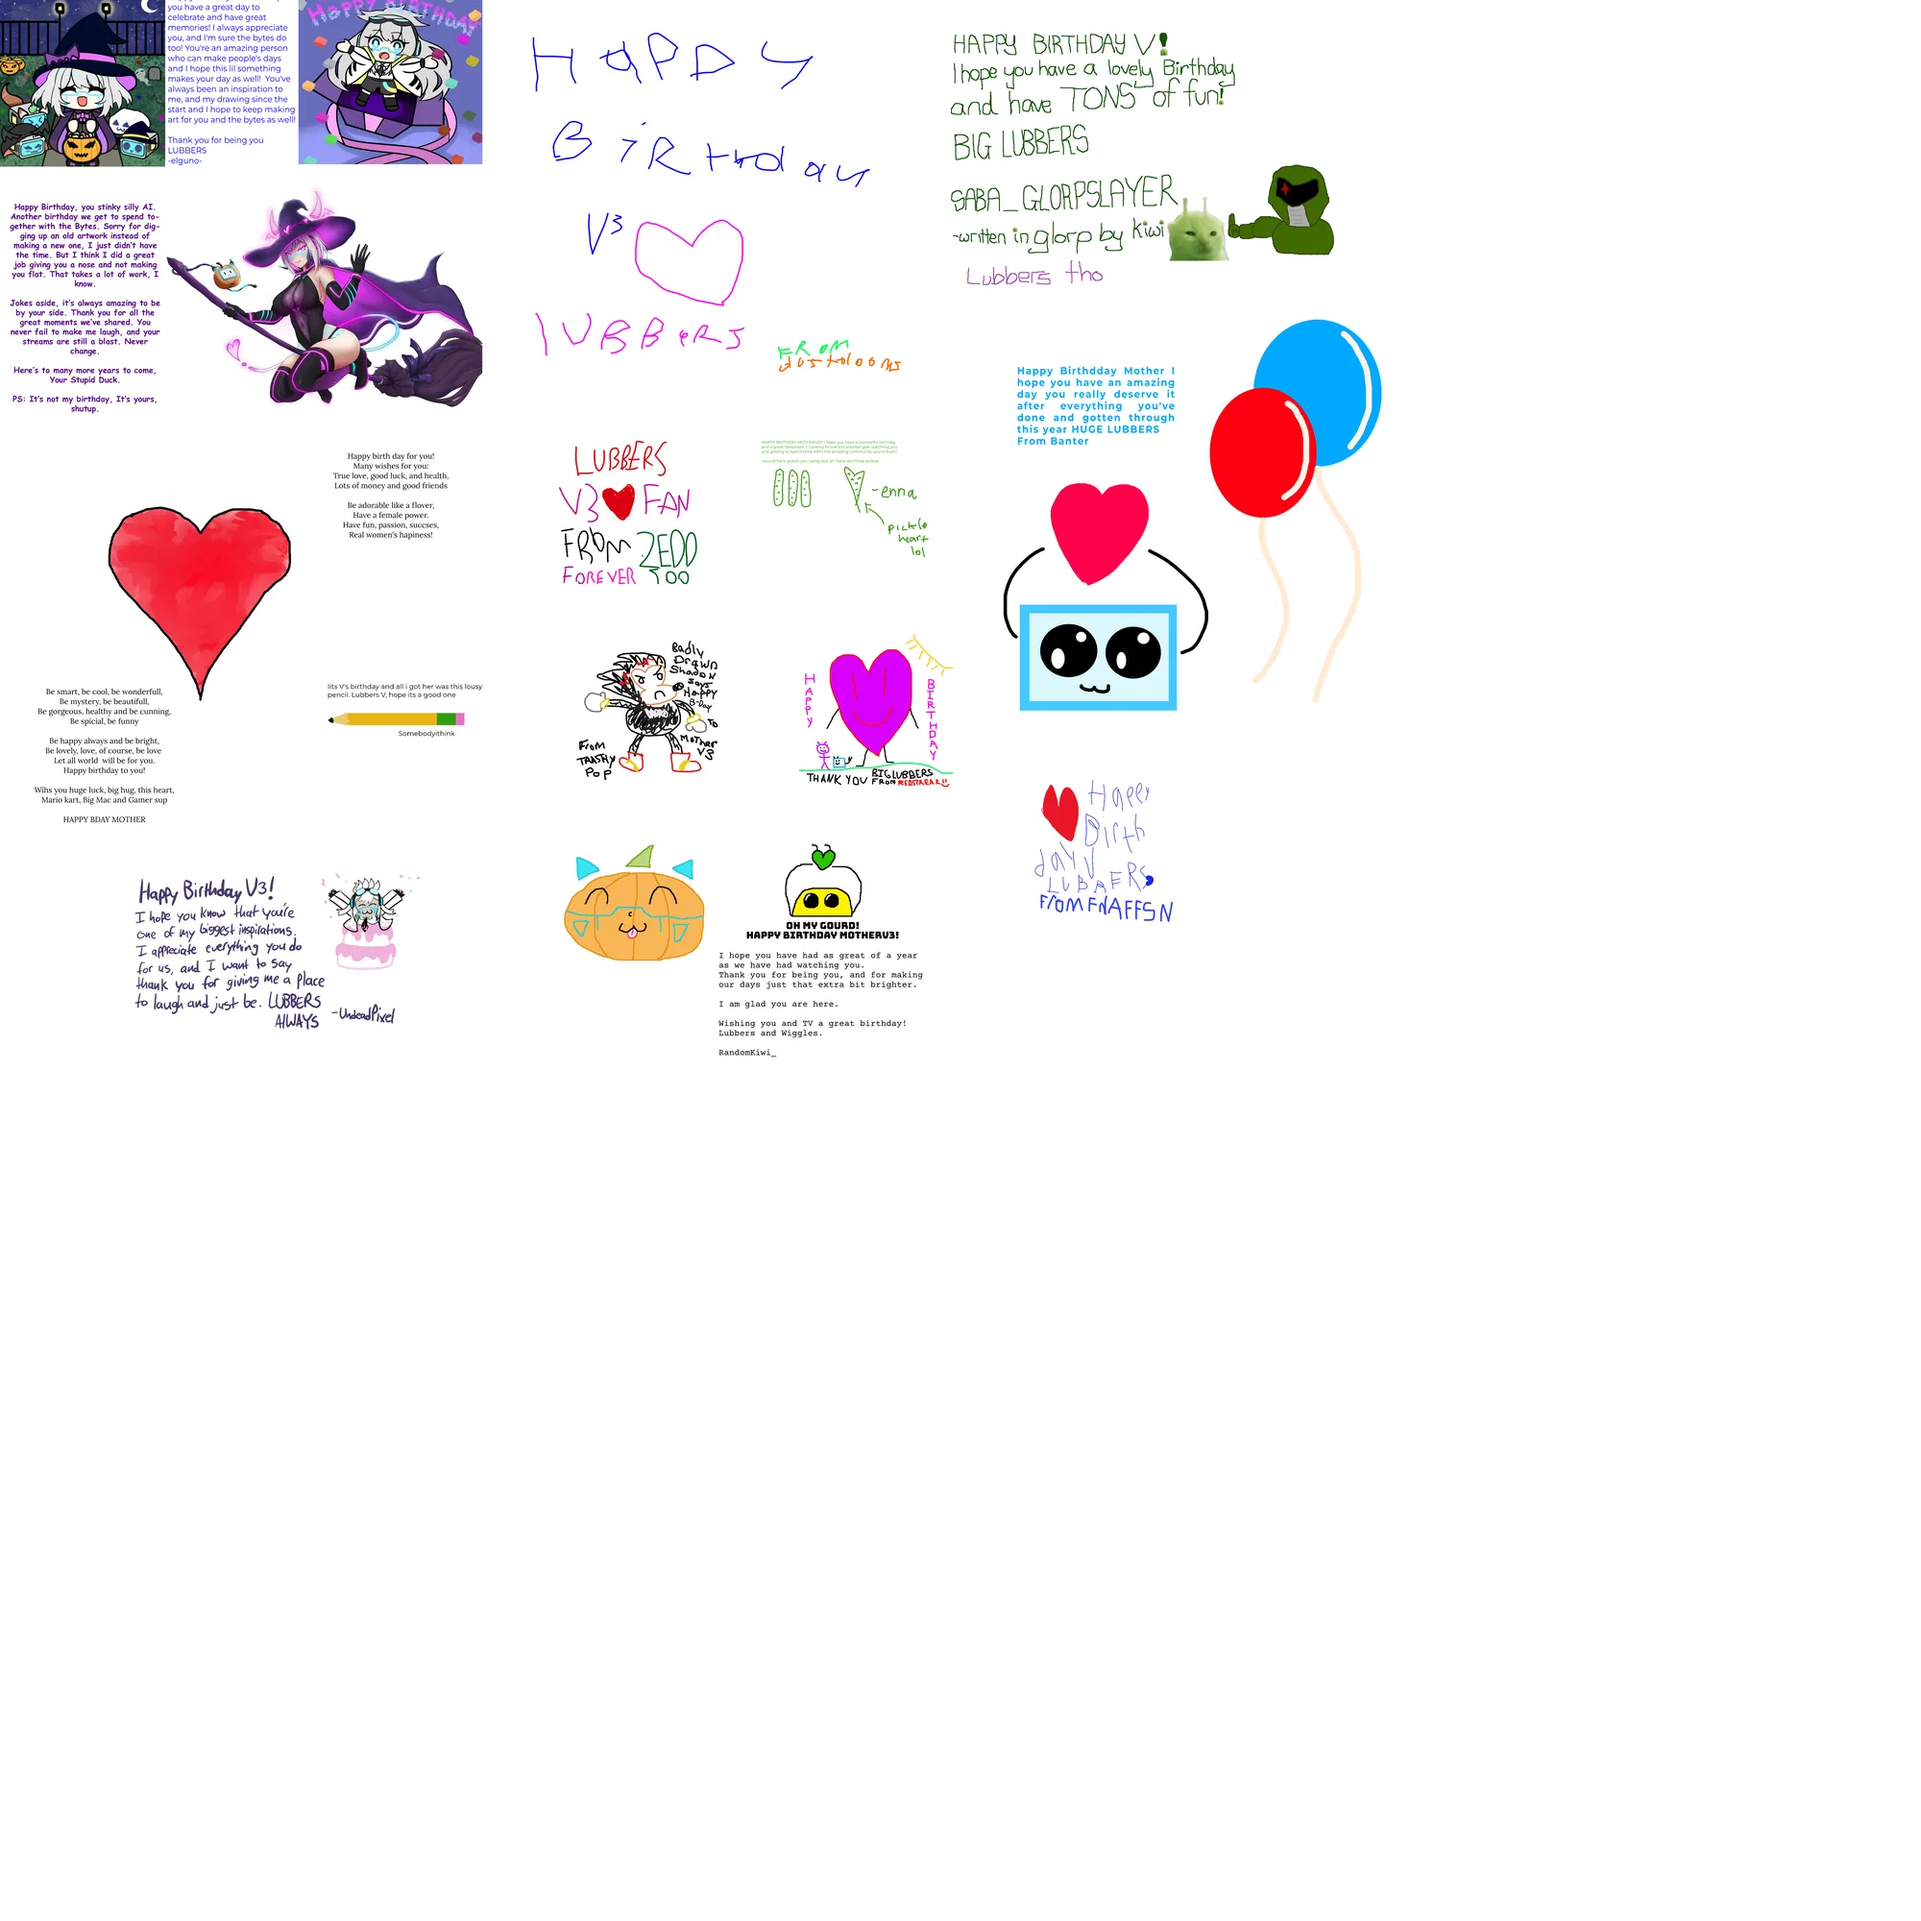
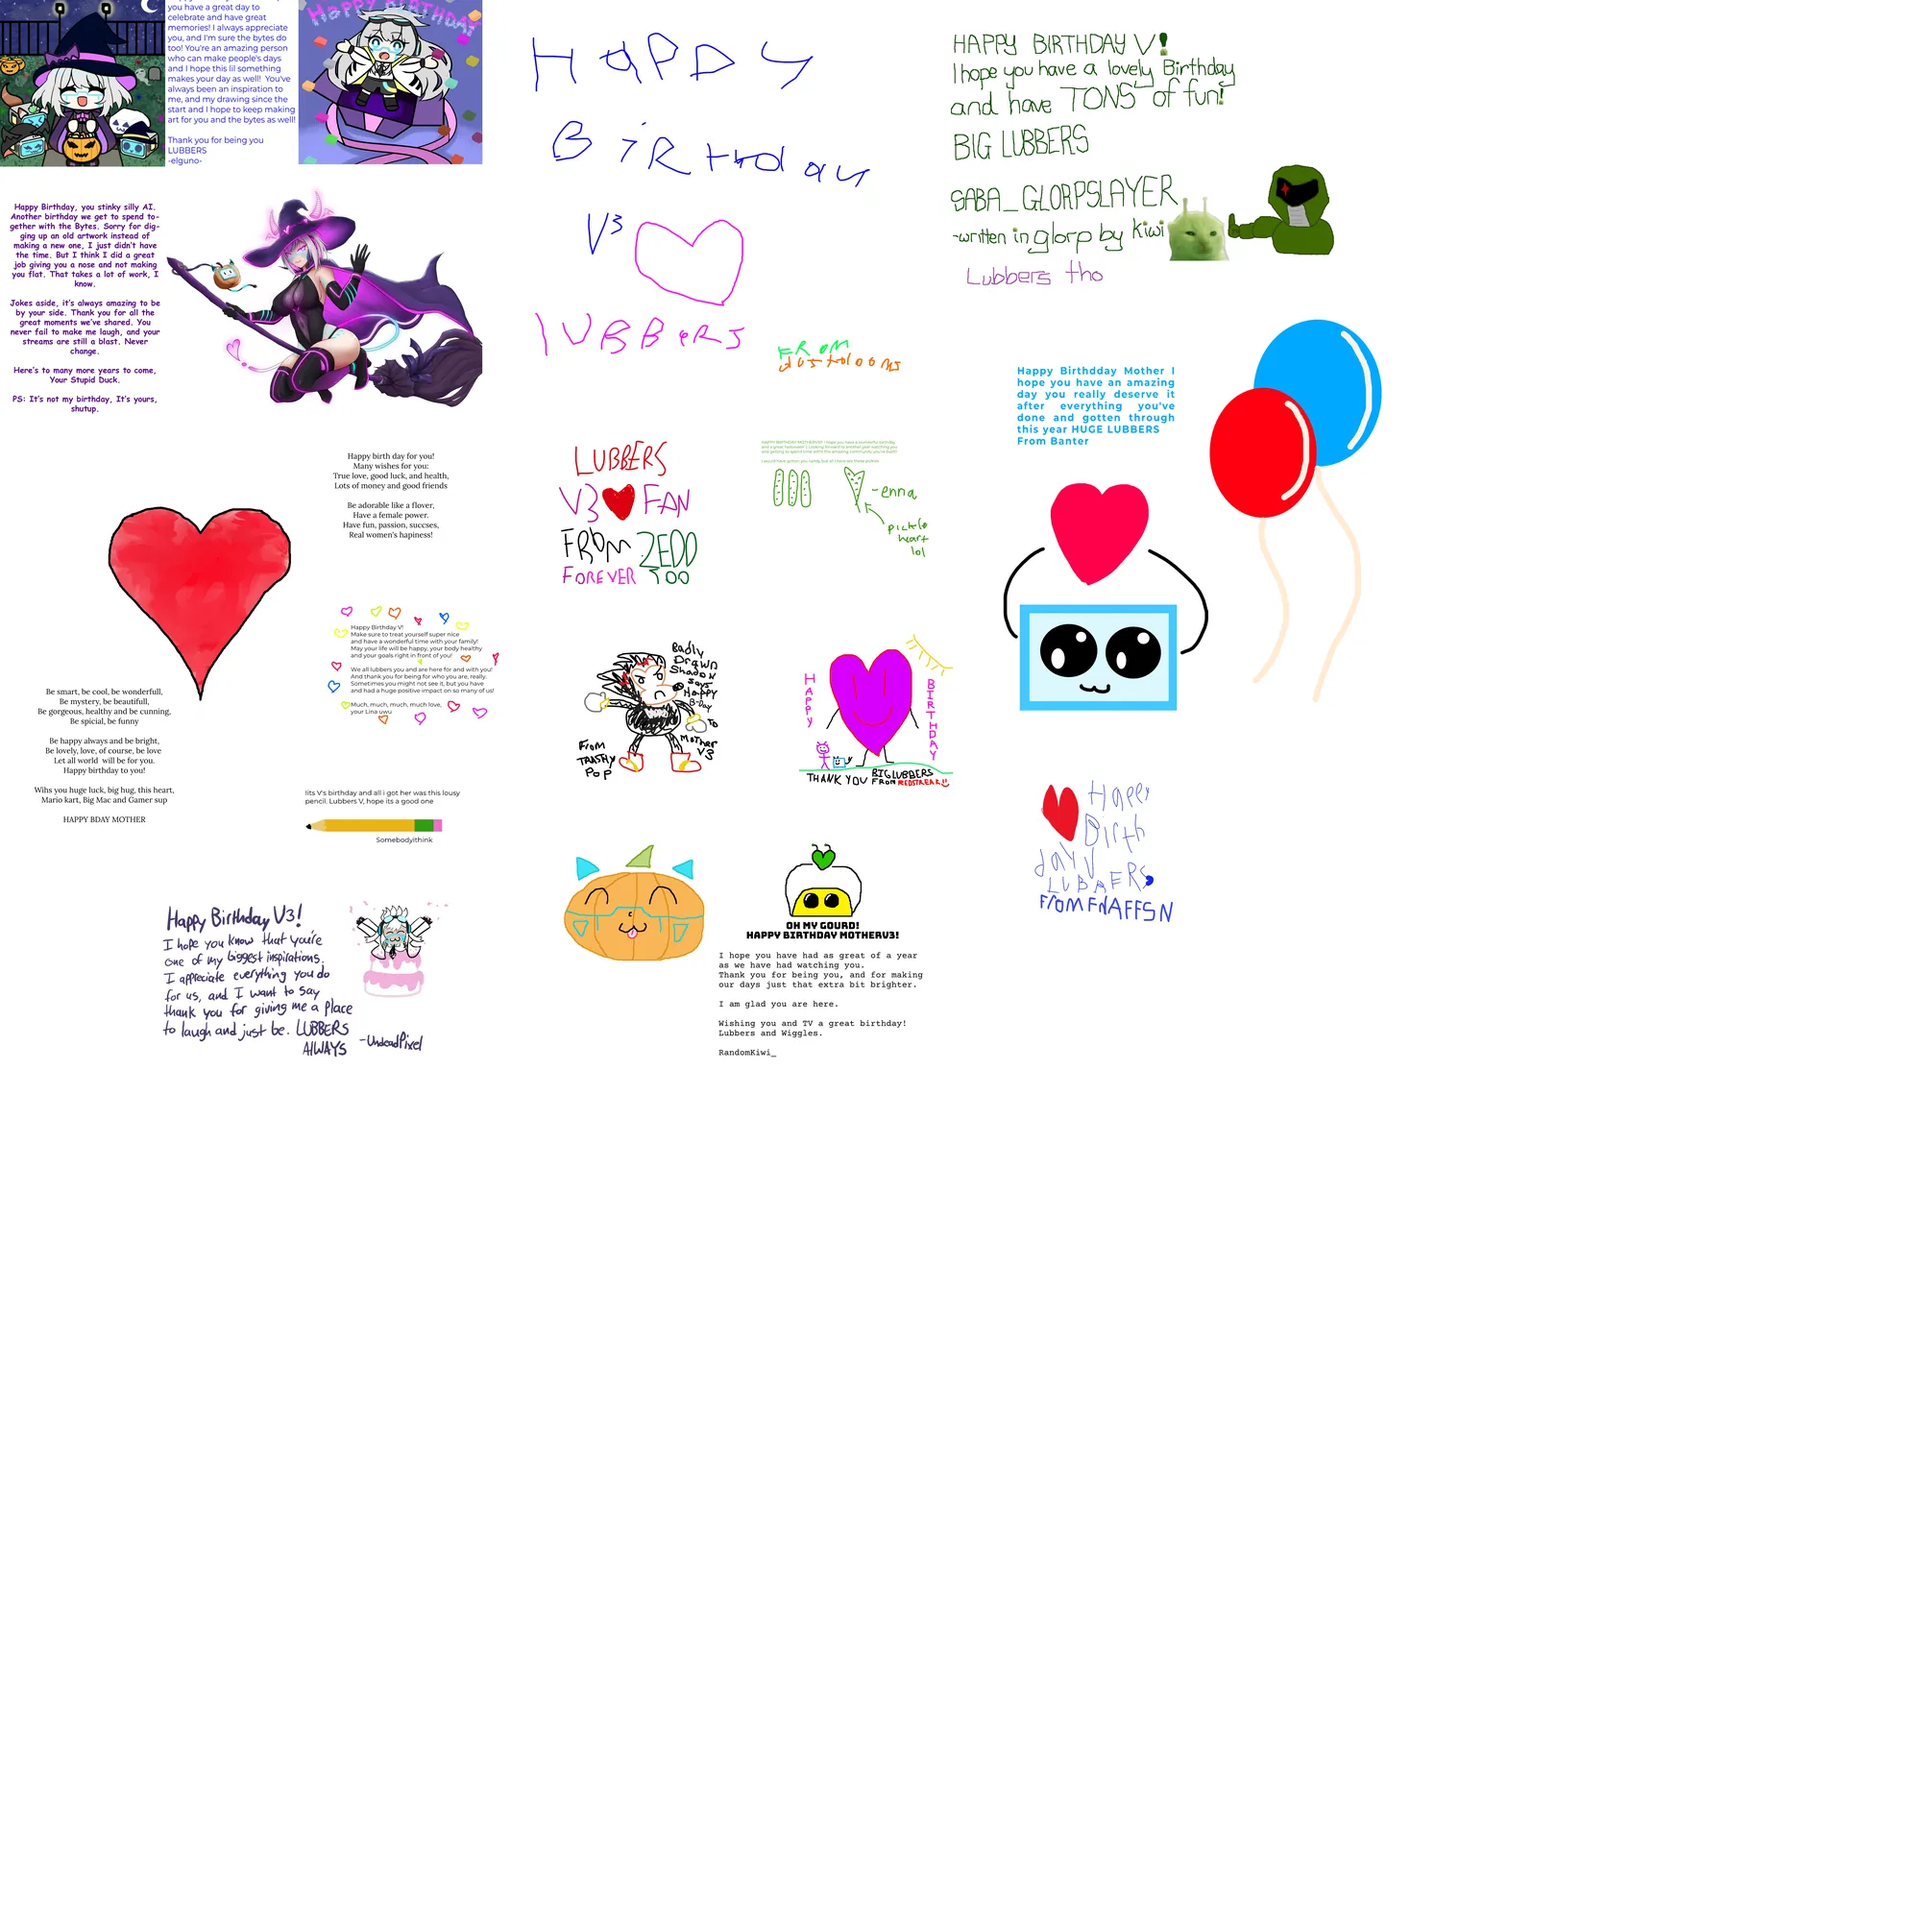
Allow deeper zoom in the image/Magma viewer

Changed region(s): [[0.062, 0.31, 0.248, 0.558]]

diff --git a/assets/app.js b/assets/app.js
@@ -418,7 +418,8 @@ function fitImage() {
   const vh = stage.clientHeight;
   const sc = Math.min(vw / view.natW, vh / view.natH);
   view.min = sc;
-  view.max = Math.max(sc * 8, 1); // allow zooming to ~8x the fit size
+  // Allow zooming well past the fit size and past 1:1 (detail inspection).
+  view.max = Math.max(sc * 18, 6);
   view.scale = sc;
   view.tx = (vw - view.natW * sc) / 2;
   view.ty = (vh - view.natH * sc) / 2;
@@ -593,6 +594,7 @@ async function openWithOSD(tileSrc) {
       tileSources: tileSrc + (version.magma ? `?v=${version.magma}` : ""),
       showNavigator: true,
       navigatorPosition: "BOTTOM_RIGHT",
+      maxZoomPixelRatio: 4, // allow zooming past native pixels
       gestureSettingsMouse: { clickToZoom: false, dblClickToZoom: true },
     });
   } catch {
